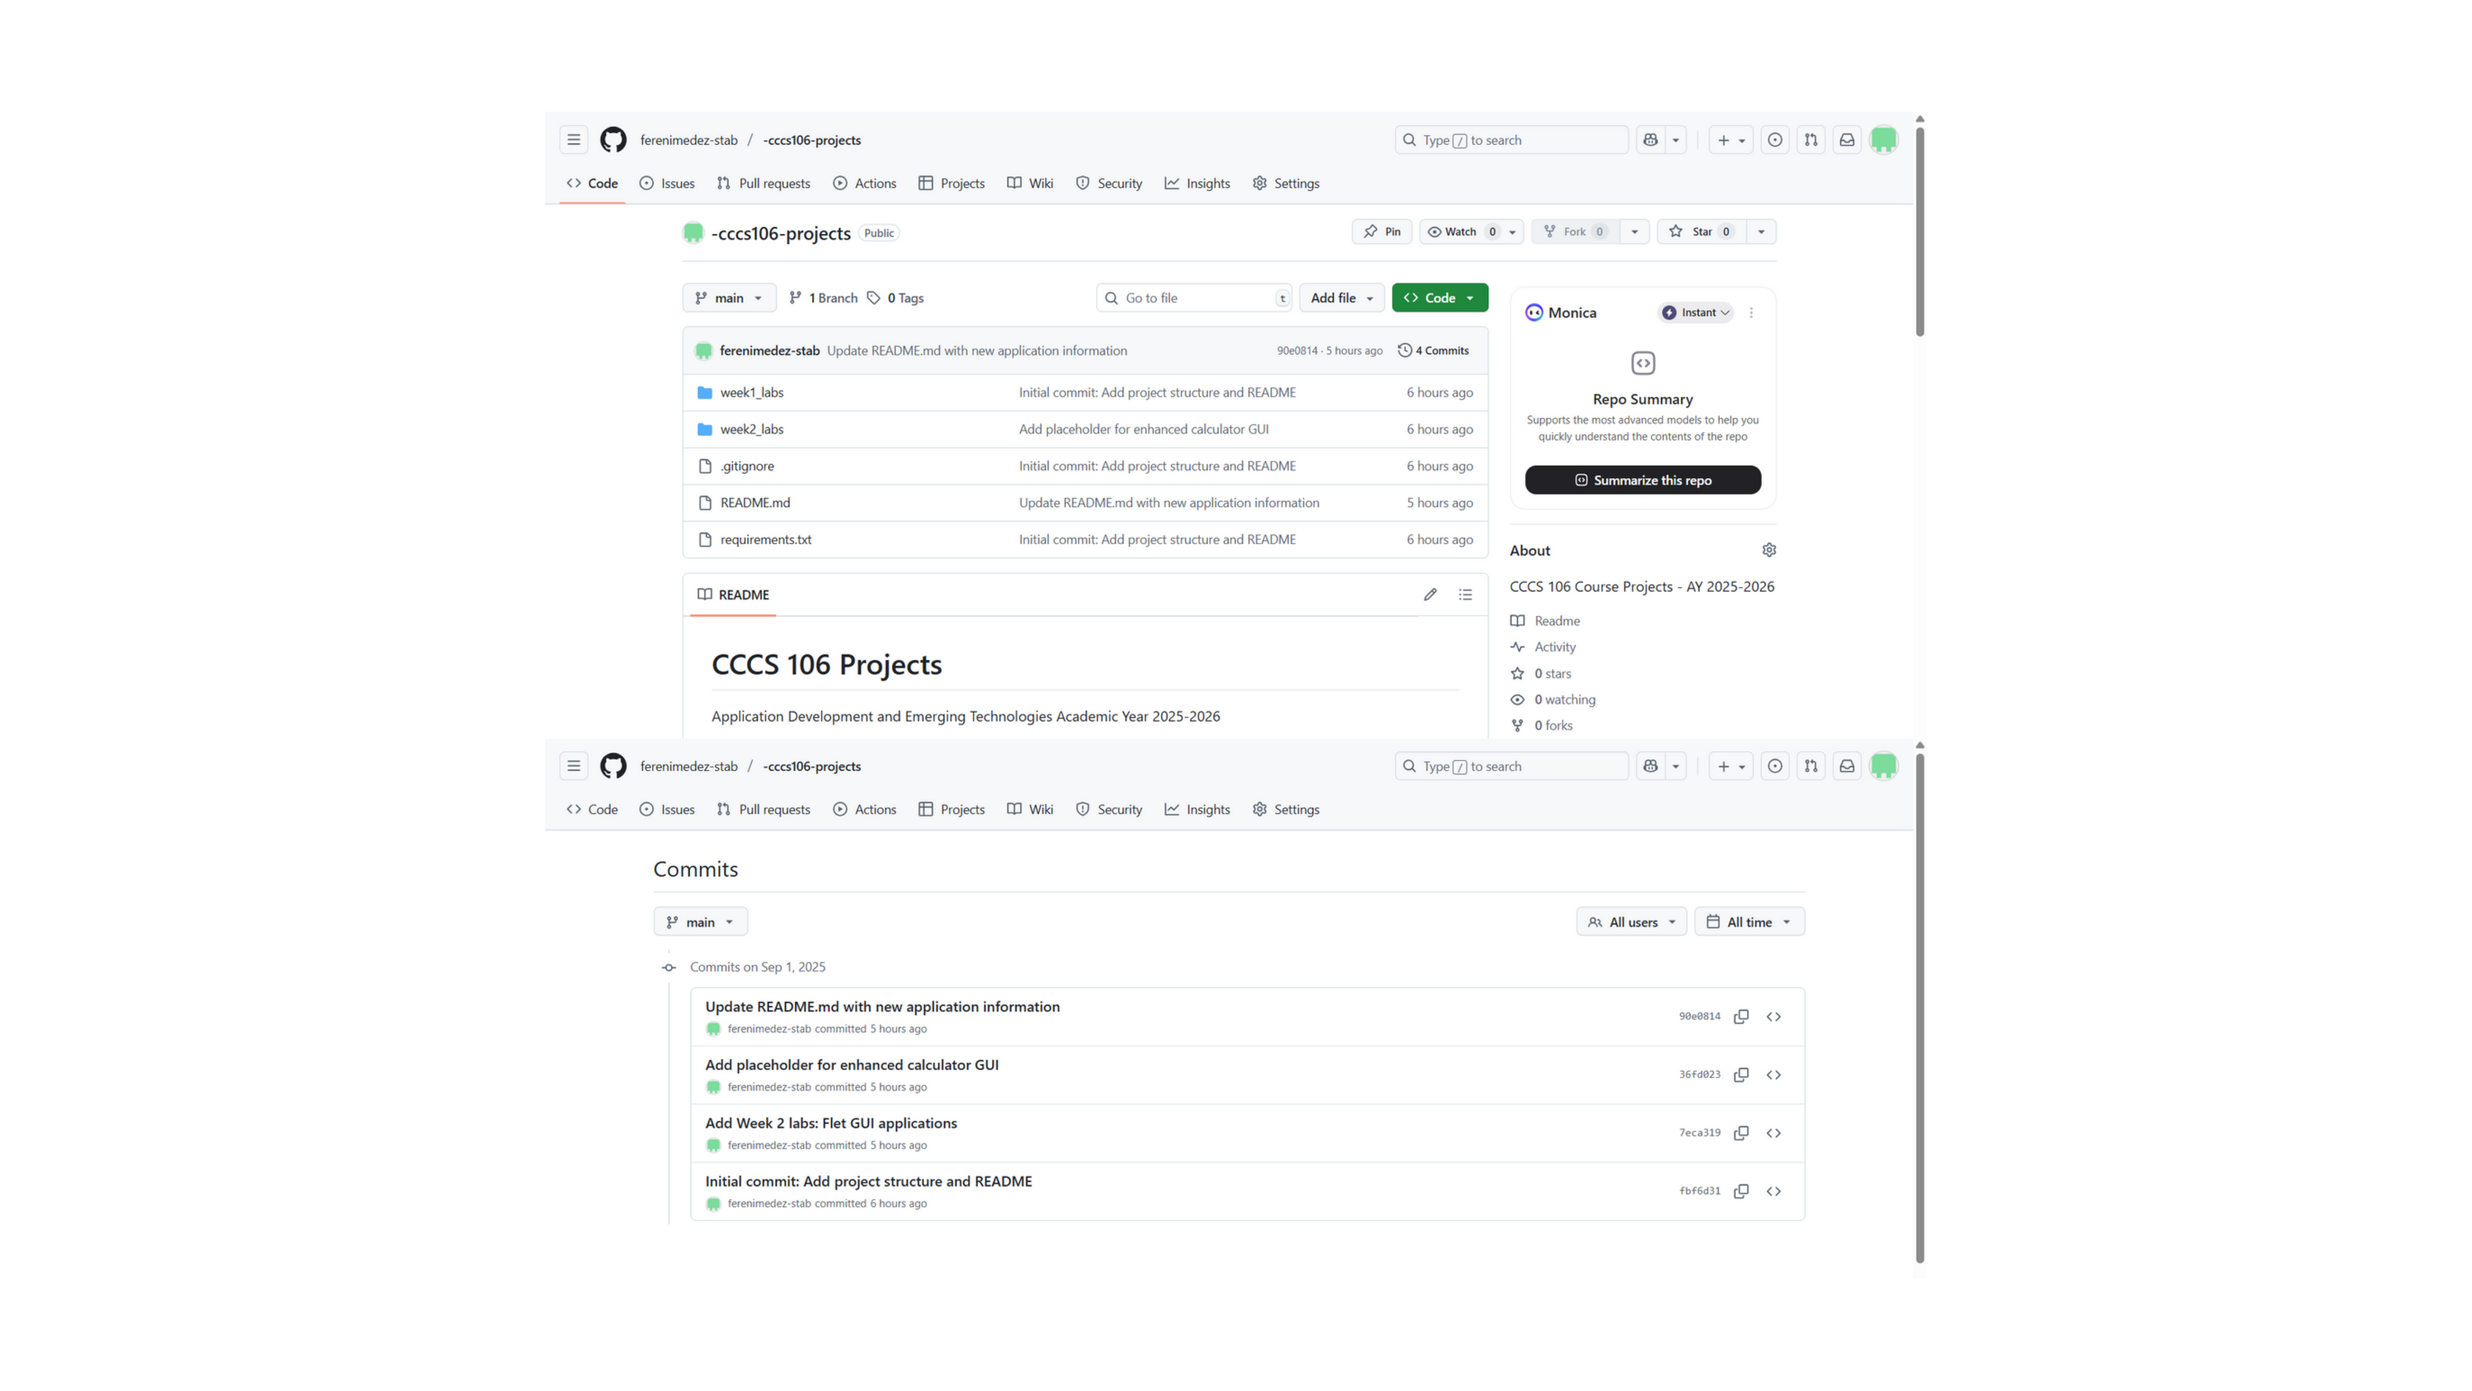
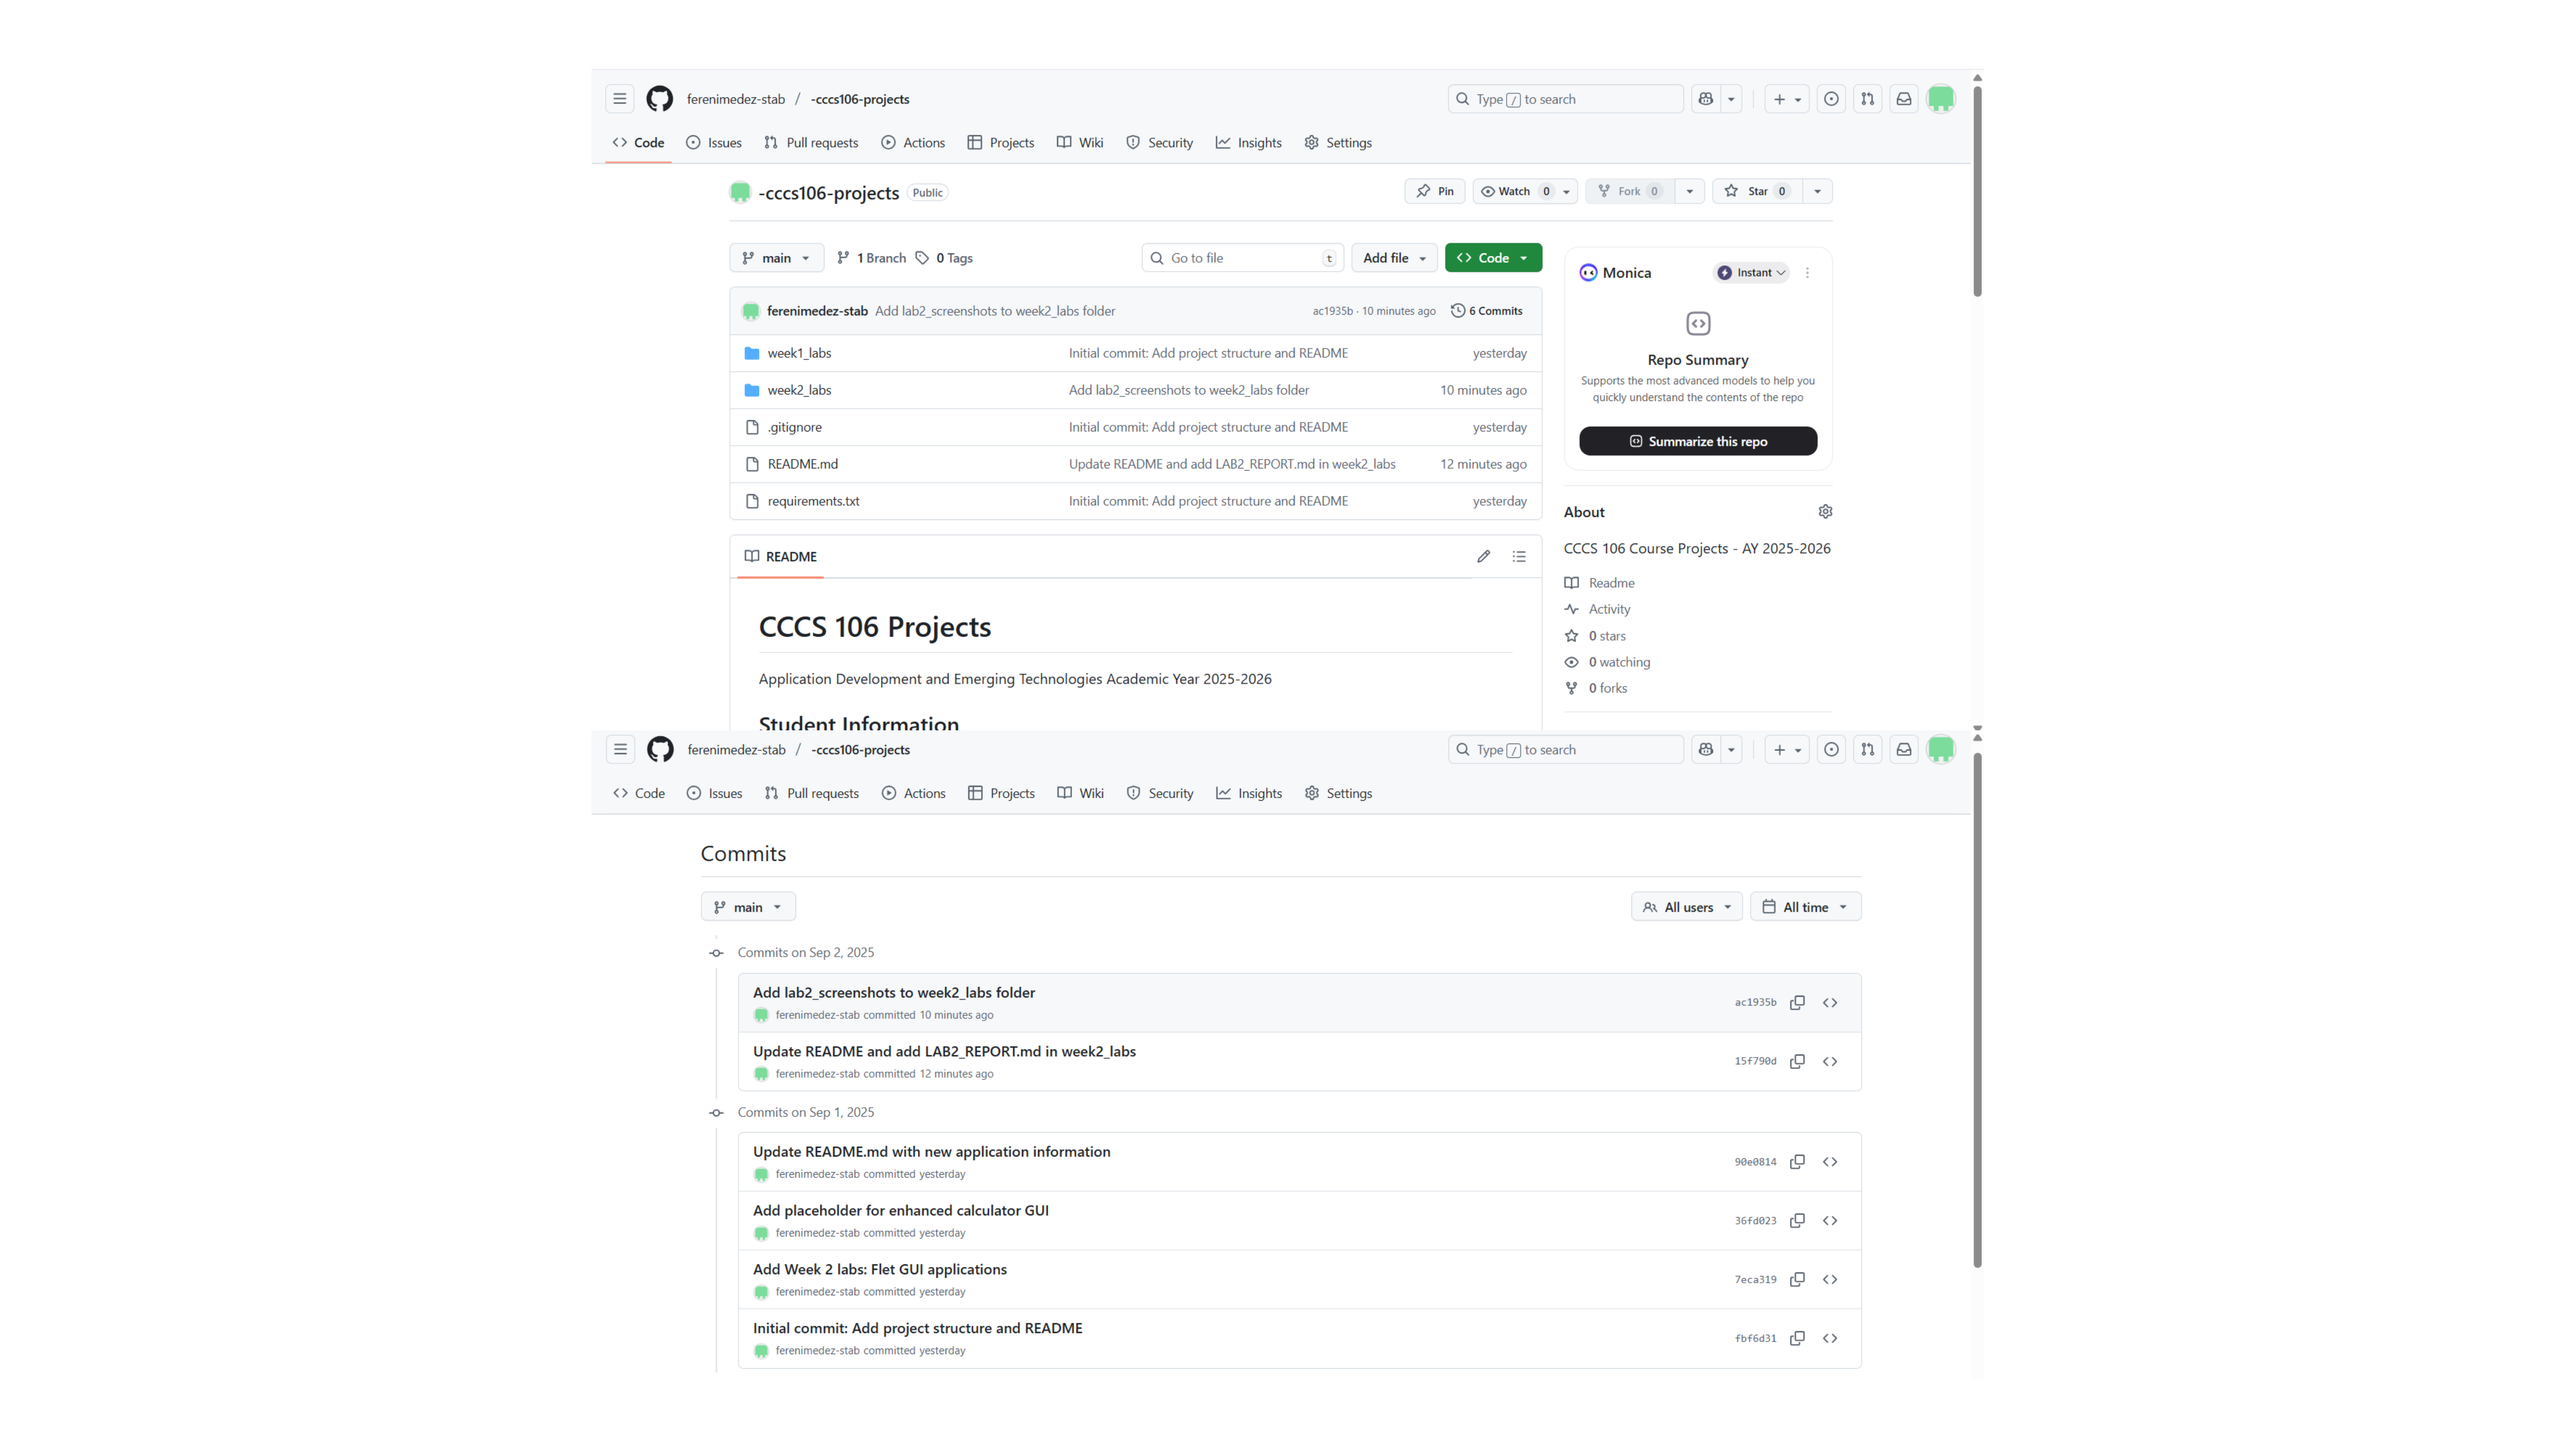
Update LAB2_REPORT.md, add new screenshots to lab2_screenshots, and fix Flet implementation

diff --git a/week2_labs/personal_info_gui.py b/week2_labs/personal_info_gui.py
@@ -84,7 +84,7 @@ def main(page: ft.Page):
 
             # Calculate birth year
             current_year = datetime.now().year
-            birth_year = current_year - int(age.value)
+            birth_year = current_year - int(str(age.value))
             graduation_year = current_year + (5 - int(year_level.value[0]) if year_level.value else 5)
 
             # Generate profile
@@ -131,7 +131,7 @@ def main(page: ft.Page):
             content=ft.Text(message),
             actions=[ft.TextButton("OK", on_click=lambda e: close_error_dialog(error_dialog))]
         )
-        page.dialog = error_dialog
+        page.overlay.append(error_dialog)
         error_dialog.open = True
         page.update()
 

diff --git a/week2_labs/hello_flet.py b/week2_labs/hello_flet.py
@@ -76,7 +76,7 @@ def main(page: ft.Page):
             ]
         )
 
-        page.dialog = dialog
+        page.overlay.append(dialog)
         dialog.open = True
         page.update()
 

diff --git a/week2_labs/LAB2_REPORT.md b/week2_labs/LAB2_REPORT.md
@@ -3,14 +3,14 @@
 **Student Name:** Fernanne Hannnah A. Enimedez
 **Student ID:** 231002274
 **Section:** A
-**Date:** September XX, 2025
+**Date:** September 2, 2025
 
 ## Git Configuration
 
 ### Repository Setup
 - **GitHub Repository:** https://github.com/ferenimedez-stab/-cccs106-projects.git
 - **Local Repository:** ✅ Initialized and connected
-- **Commit History:** 4 commits with descriptive messages
+- **Commit History:** 7 (including the latest) commits with descriptive messages
 
 ### Git Skills Demonstrated
 - ✅ Repository initialization and configuration
@@ -26,7 +26,6 @@
 - **UI Components:** Text, TextField, Buttons, Dialog, Containers
 - **Notes:**
     - Student information displayed in the application can be modified in the source code.
-    - The <i>App Info</i> button is not yet functional.
     - The UI elements are not responsive.
     - In the <i>Interactive Section</i>, there are no input constraints: integers and special characters are accepted and treated as strings.
 
@@ -73,11 +72,32 @@ One specific issue occurred when I was working with a commit command that contai
 I misread the command and mistakenly added only the first line, ending it with what I thought was an omitted closing quotation mark. When I tried the same commands again by copy-pasting, the terminal treated each line individually. I solved this mishap by removing the line breaks and rewriting the command in a single line, separating phrases with spaces. Fortunately, the mistakes made did not affect the repository in any way.
 
 ### Flet attribute issue
-For Exercise 2.2, where we create two basic Flet applications, VS Code flagged certain attributes, such as page.dialog, with the error message:
+For Exercise 2.2, where we create two basic Flet applications, VS Code flagged certain attributes: `page.dialog` and `age.value`.
+
+
+`page.dialog` had the error message:
 
     Cannot assign to attribute "dialog" for class "Page" Attribute "dialog" is unknown Pylance (reportAttributeAccessIssue)
 
-In an attempt to troubleshoot the issue, I researched and learnt that this warning comes from Pylance's type checking. Flet uses dynamic attributes that are not always declared in the type stubs that Pylance relies on, so VS Code flags them despite being valid at runtime. The code will execute nonetheless as allowed by the framework.
+![page.dialog error](/week2_labs/lab2_screenshots/page.dialog%20error.png)
+
+The initial attempt to troubleshoot this issue, I researched and concluded that this was caused by how Pylance performs type checking. Since Flet uses dynamic attributes that are not always declares in the type stubs Pylance relies on, VS code flags them despite being valid at runtime.
+
+However, upon revisiting the code, I noticed that the function for the `App info` button were neatly defined, which meant the issue wasn't caused by missing logic. This led me to a deeper investigation, where I confirmed that the `page.dialog = dialog` approach had been deprecated in the current version of Flet installed (v0.28.3).
+
+The correct approach is to append the dialog to the page's overlay:
+
+![page.dialog error - FIXED](/week2_labs/lab2_screenshots/page.dialog%20error%20-%20FIXED.png)
+
+As for the `.value` property, the initial conclusion stands. This means that it exists and works fine at runtime, Pylance does not always recognise it.
+
+![.value warning](/week2_labs/lab2_screenshots/age.value%20warning.png)
+
+To address this, the code can be updated to explicitly cast the value before converting it to an integer:
+
+![.value warning - FIXED](/week2_labs/lab2_screenshots/age.value%20warning%20-%20FIXED.png)
+
+This small change relieves the type-cast warning without affection the app's functionalities.
 
 ## Learning Outcomes
 
@@ -111,7 +131,6 @@ In terms of GUI development, I realised some editor warnings (like Flet and Pyla
 
 ### Hello Flet Application
 - **Responsive UI:** Wrap forms and controls in expandable containers so they resize with the viewport.
-- **Functional buttons:** App info button can open a modal that fetches features, version details, dependencies, etc.
 - **Input Constraints and Validation:** Enforce field types or patterns, and display inline errors before or on submission.
 - **Modifiable Student Information:** Add a toggle for viewing and editing modes with save/cancel actions.
 
